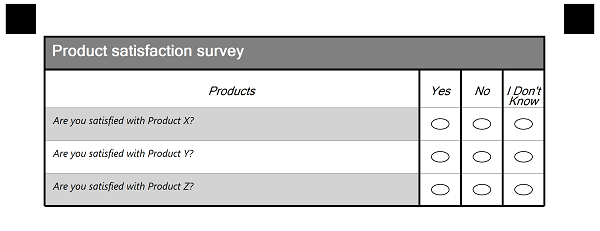
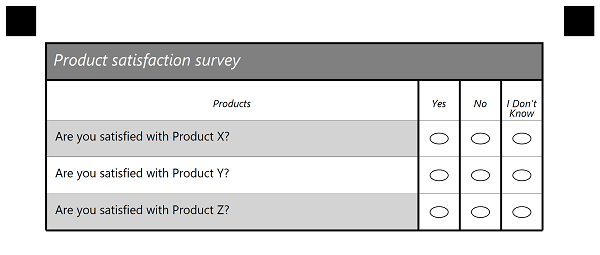
Updated table templates. Fixed typos.

diff --git a/net/developer-guide/template-generation/json-documentation/elements-description/Table/_index.md b/net/developer-guide/template-generation/json-documentation/elements-description/Table/_index.md
@@ -97,8 +97,7 @@ Represent question with multiple answers. Value of this element placed in the fi
                             "children": [{
                                     "name": "Survey",
                                     "children": [{
-                                            "font_family": "Italic",
-                                            "font_style": "Bold",
+                                            "font_style": "Italic",
                                             "font_size": 16,
                                             "color": "White",
                                             "background_color": "Gray",
@@ -108,15 +107,12 @@ Represent question with multiple answers. Value of this element placed in the fi
                                             "name": "Product satisfaction survey",
                                             "element_type": "TableTitle"
                                         }, {
-                                            "font_family": "Italic",
-                                            "font_style": "Regular",
-                                            "font_size": 12,
-                                            "name": "1",
+                                            "font_style": "Italic",
+											"font_size": 10,
+                                            "name": "header",
                                             "children": [{
                                                     "name": "Products",
-                                                    "font_family": "Segoe UI",
                                                     "font_style": "Regular",
-                                                    "font_size": 12,
                                                     "element_type": "Content"
                                                 }, {
                                                     "name": "Yes",
@@ -162,6 +158,7 @@ Represent question with multiple answers. Value of this element placed in the fi
     ],
     "element_type": "Template"
 }
+
 
 ````
 

diff --git a/net/developer-guide/template-generation/txt-documentation/elements-description/Table/_index.md b/net/developer-guide/template-generation/txt-documentation/elements-description/Table/_index.md
@@ -87,11 +87,14 @@ This element has no additional attributes. 
 
 ### **Example of table structure**
 ```text
+?container=table_container
+	columns_count=1
+?block=table_block
+	column=1
 ?table=Survey
-	answer_count=3
+	answers_count=3
 	table_type=striped
 ?table_title=Product satisfaction survey
-	font_family=Italic
 	font_size=16
 	font_style=Bold
 	color=White
@@ -99,9 +102,9 @@ This element has no additional attributes. 
 	border=Square
 	border_size=8
 	border_color=Black
-?table_header=1
-	font_family=Italic
-	font_size=12
+?table_header=table_header
+	font_size=10
+	font_style=Italic
 ?content=Products
 ?answer_value=Yes
 ?answer_value=No
@@ -111,6 +114,8 @@ This element has no additional attributes. 
 ?question=Are you satisfied with Product Y?
 ?question=Are you satisfied with Product Z?
 &table
+&block
+&container
 ````
 
 **Result**

diff --git a/net/release-notes/release-notes-2021/aspose-omr-for-net-21-8-release-notes/_index.md b/net/release-notes/release-notes-2021/aspose-omr-for-net-21-8-release-notes/_index.md
@@ -61,7 +61,6 @@ No Changes
 	answer_count=3
 	table_type=striped
 ?table_title=COVID-19 Questionnaire
-	font_family=Italic
 	font_size=16
 	font_style=Bold
 	color=White
@@ -70,7 +69,6 @@ No Changes
 	border_size=8
 	border_color=Black
 ?table_header=1
-	font_family=Italic
 	font_size=12
 ?content=Questions
 ?answer_value=Yes

diff --git a/net/release-notes/release-notes-2021/aspose-omr-for-net-21-9-release-notes/_index.md b/net/release-notes/release-notes-2021/aspose-omr-for-net-21-9-release-notes/_index.md
@@ -44,7 +44,6 @@ No Changes
 	answer_count=3
 	table_type=striped
 ?table_title=COVID-19 Questionnaire
-	font_family=Italic
 	font_size=16
 	font_style=Bold
 	color=White
@@ -53,7 +52,6 @@ No Changes
 	border_size=8
 	border_color=Black
 ?table_header=1
-	font_family=Italic
 	font_size=12
 ?content=Questions
 ?answer_value=Yes
